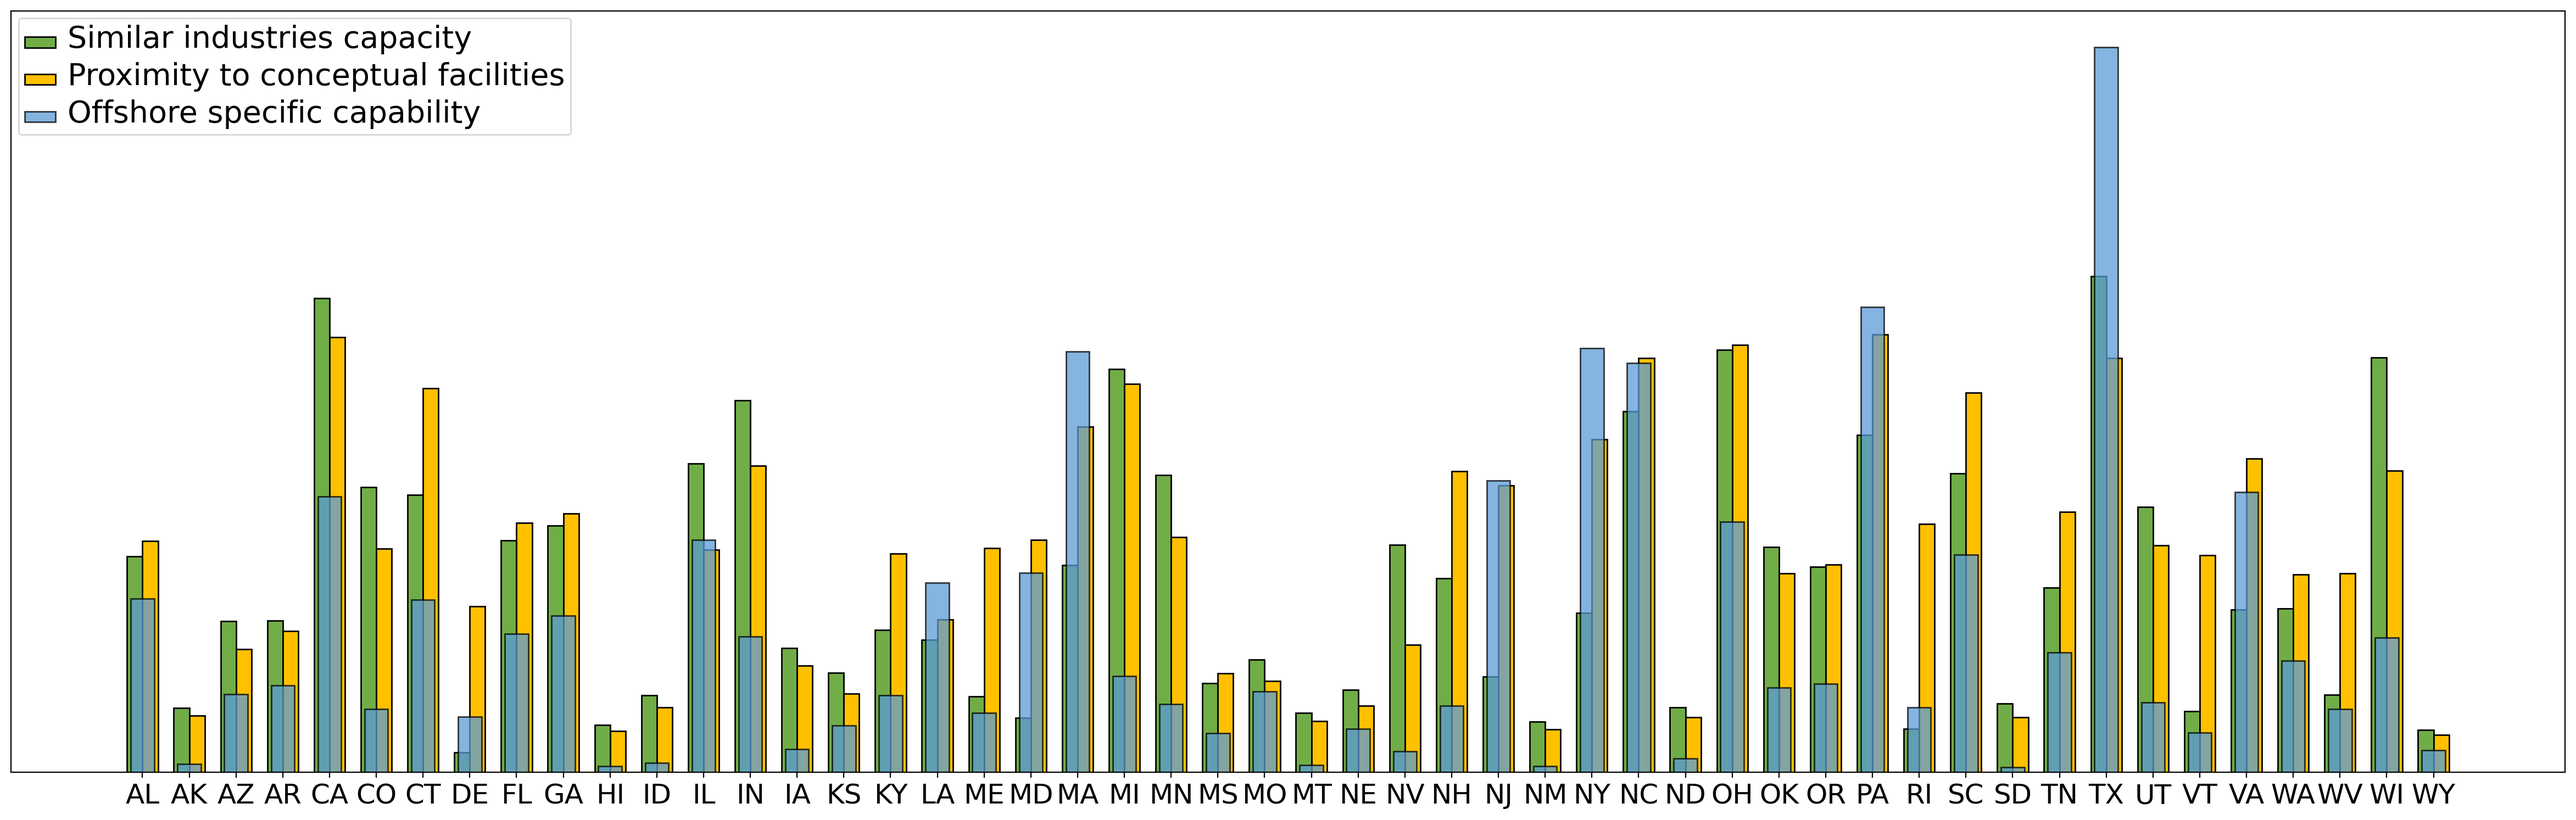
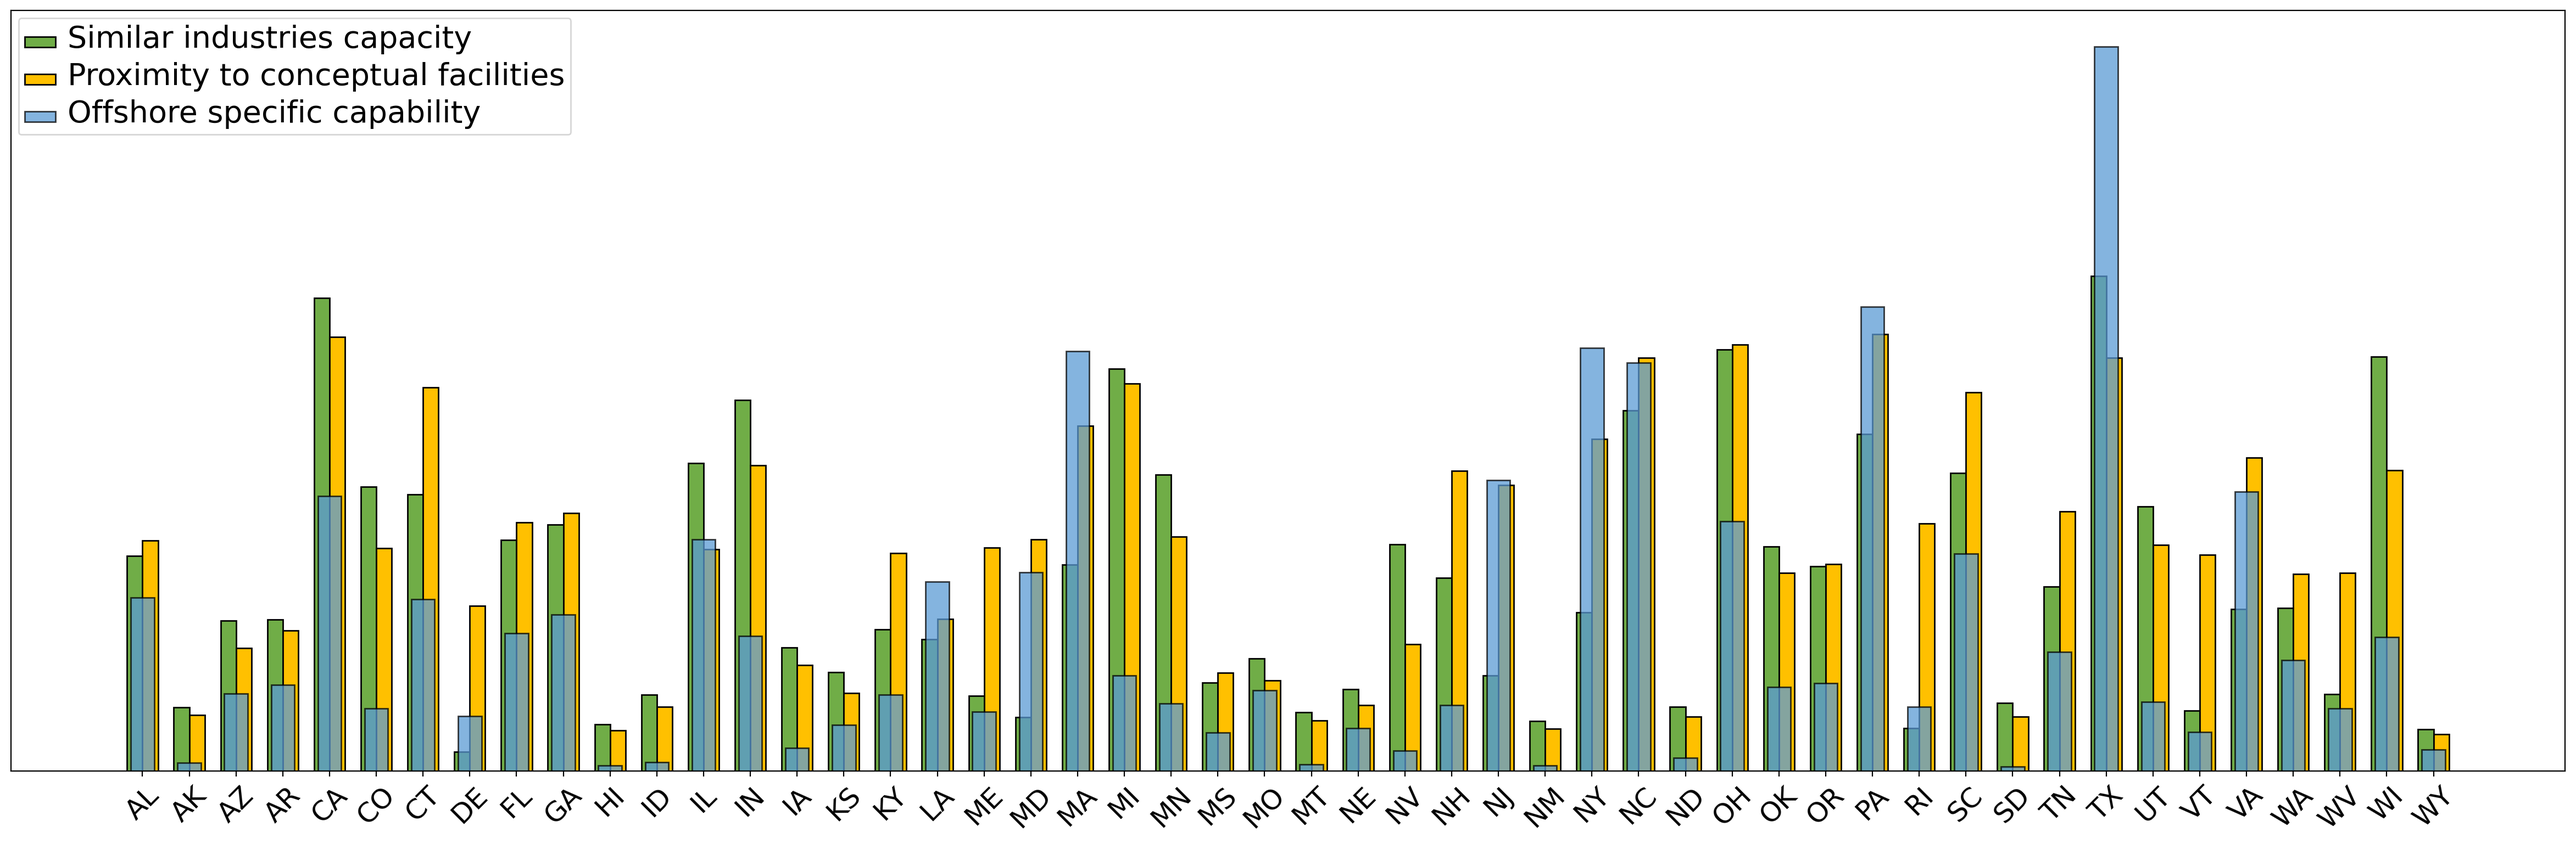
Refactor and arrange the job opportunity plots

diff --git a/plot_routines.py b/plot_routines.py
@@ -527,7 +527,7 @@ def plot_overlap_bar(x, y1, y2, y3, color_list, kwargs, fname=None):
     ax.bar(x, y2, width=kwargs['back_bar_width'], align='edge', zorder=kwargs['back_bar_zorder'], label=kwargs['legend'][1], edgecolor='k', color=color_list[kwargs['legend'][1]])
     ax.bar(x, y3, width=kwargs['front_bar_width'], alpha=0.75, zorder=kwargs['front_bar_zorder'], label=kwargs['legend'][2], edgecolor='k', color=color_list[kwargs['legend'][2]])
 
-    # ax.set_xticks(ax.get_xticks(), rotation=45)
+    ax.set_xticklabels(x, rotation=45)
     ax.legend()
     frame = plt.gca()
     frame.axes.get_yaxis().set_visible(False)
@@ -537,18 +537,23 @@ def plot_overlap_bar(x, y1, y2, y3, color_list, kwargs, fname=None):
         mysave(fig, fname)
         plt.close()
 
-def plot_multi_bars(x, y1, y2_bottom, y2_height, color_list, kwargs, fname=None):
+def plot_multi_bars(x, y1, y2, y2_bottom, y2_height, color_list, kwargs, fname=None):
     """y1 is a bar starting at the x axis, y2 is a range bar above"""
 
     fig, ax = initFigAxis(figx=kwargs['figx'])
 
     ind_label = 'Range of indirect job potential'
 
-    ax.bar(x, y1, width=kwargs['width'], label=kwargs['legend'][0], color=color_list[kwargs['legend'][0]], edgecolor='k')
-    ax.bar(x, y2_height, width=kwargs['width'], bottom=y2_bottom, label=ind_label, color=color_list[kwargs['legend'][1]], edgecolor='k')
+    ymin = [y2_bottom[i] for i in np.argsort(y2)]
+    xsort = [x[i] for i in np.argsort(y2)]
+    y2sort = [y2_height[i] for i in np.argsort(y2)]
+    y1sort = [y1[i] for i in np.argsort(y2)]
 
-    # ax.set_xticklabels(ax.get_xticklabels(), rotation=45)
-    ax.set_xticklabels(x, rotation=kwargs['rotation'])
+
+    ax.bar(xsort[::-1], y1sort[::-1], width=kwargs['width'], label=kwargs['legend'][0], color=color_list[kwargs['legend'][0]], edgecolor='k')
+    ax.bar(xsort[::-1], y2sort[::-1], width=kwargs['width'], bottom=ymin[::-1], label=ind_label, color=color_list[kwargs['legend'][1]], edgecolor='k')
+
+    ax.set_xticklabels(xsort[::-1], rotation=kwargs['rotation'])
     ax.set_ylabel(kwargs['ylabel'])
     ax.set_ylim(kwargs['ylim'])
     ax.legend(loc='upper left')

diff --git a/additional_plots.py b/additional_plots.py
@@ -121,7 +121,7 @@ if __name__ == '__main__':
                     kwargs['figx'] = 12
                     kwargs['rotation'] = 90
 
-                plot_multi_bars(states, y1, y2_bottom, y2_height, color_list, kwargs, fname)
+                plot_multi_bars(states, y1, y2_top, y2_bottom, y2_height, color_list, kwargs, fname)
 
             elif "B1" in fig or "B2" in fig:
                 years = _df.columns.values
